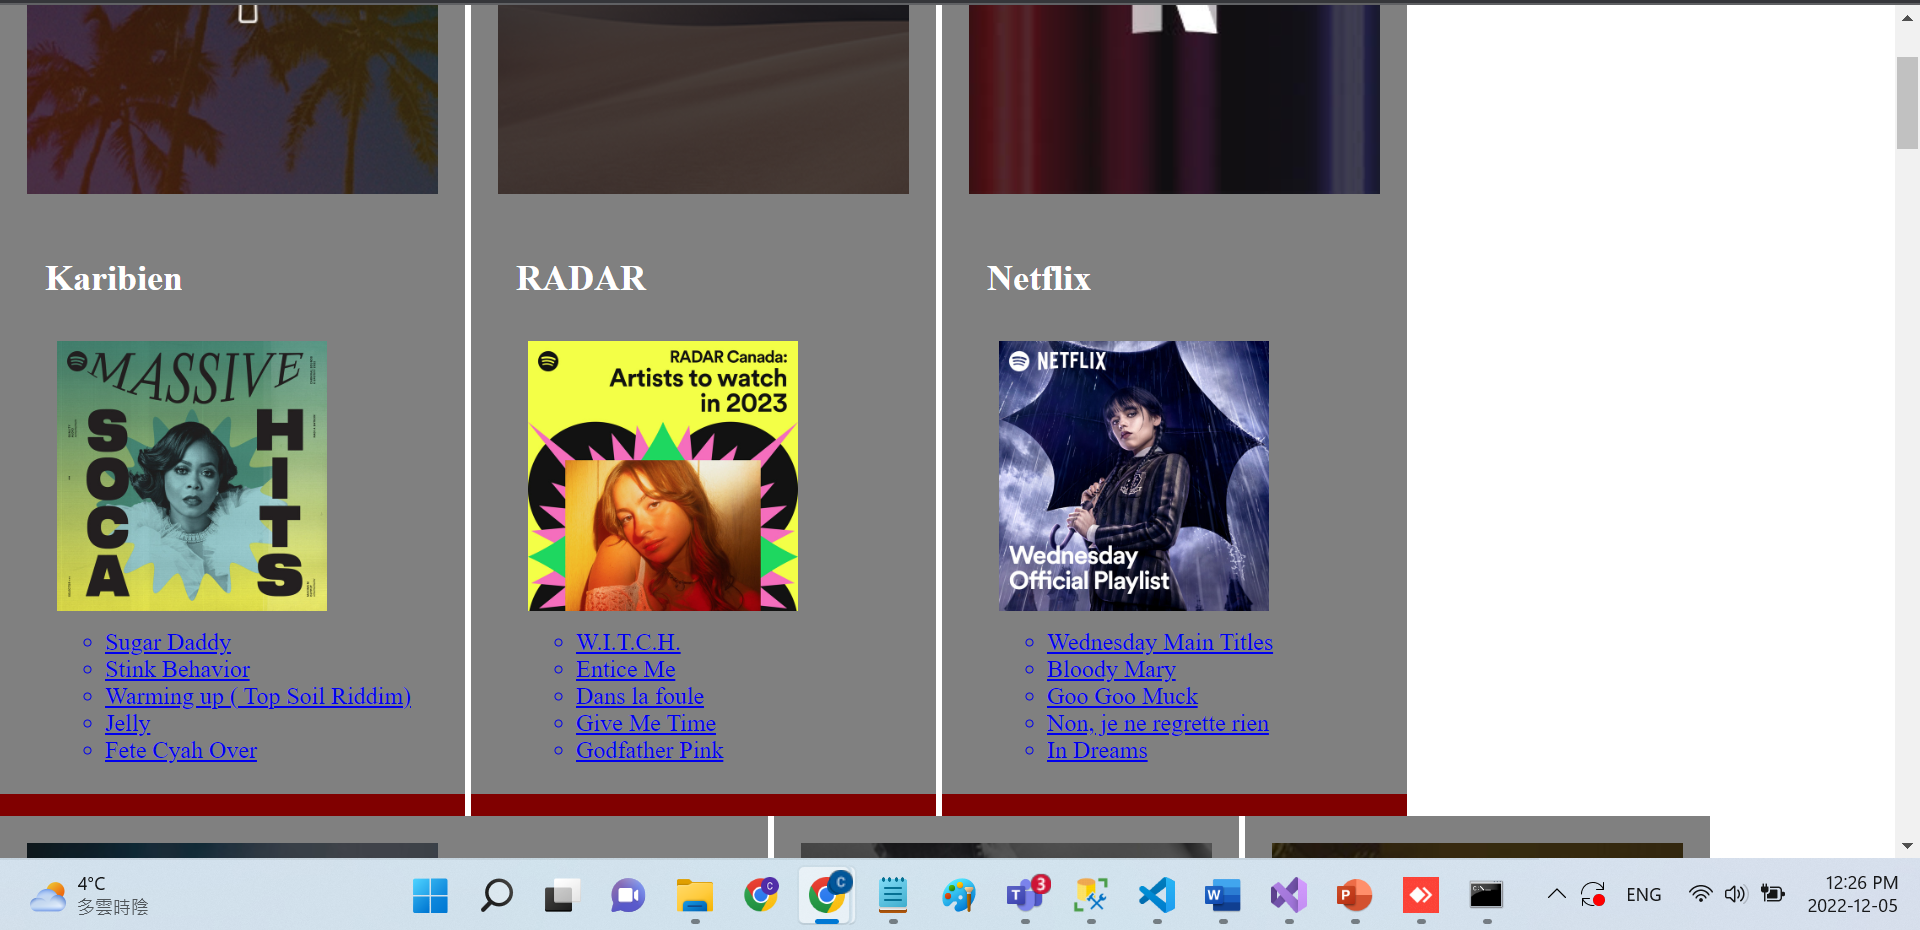
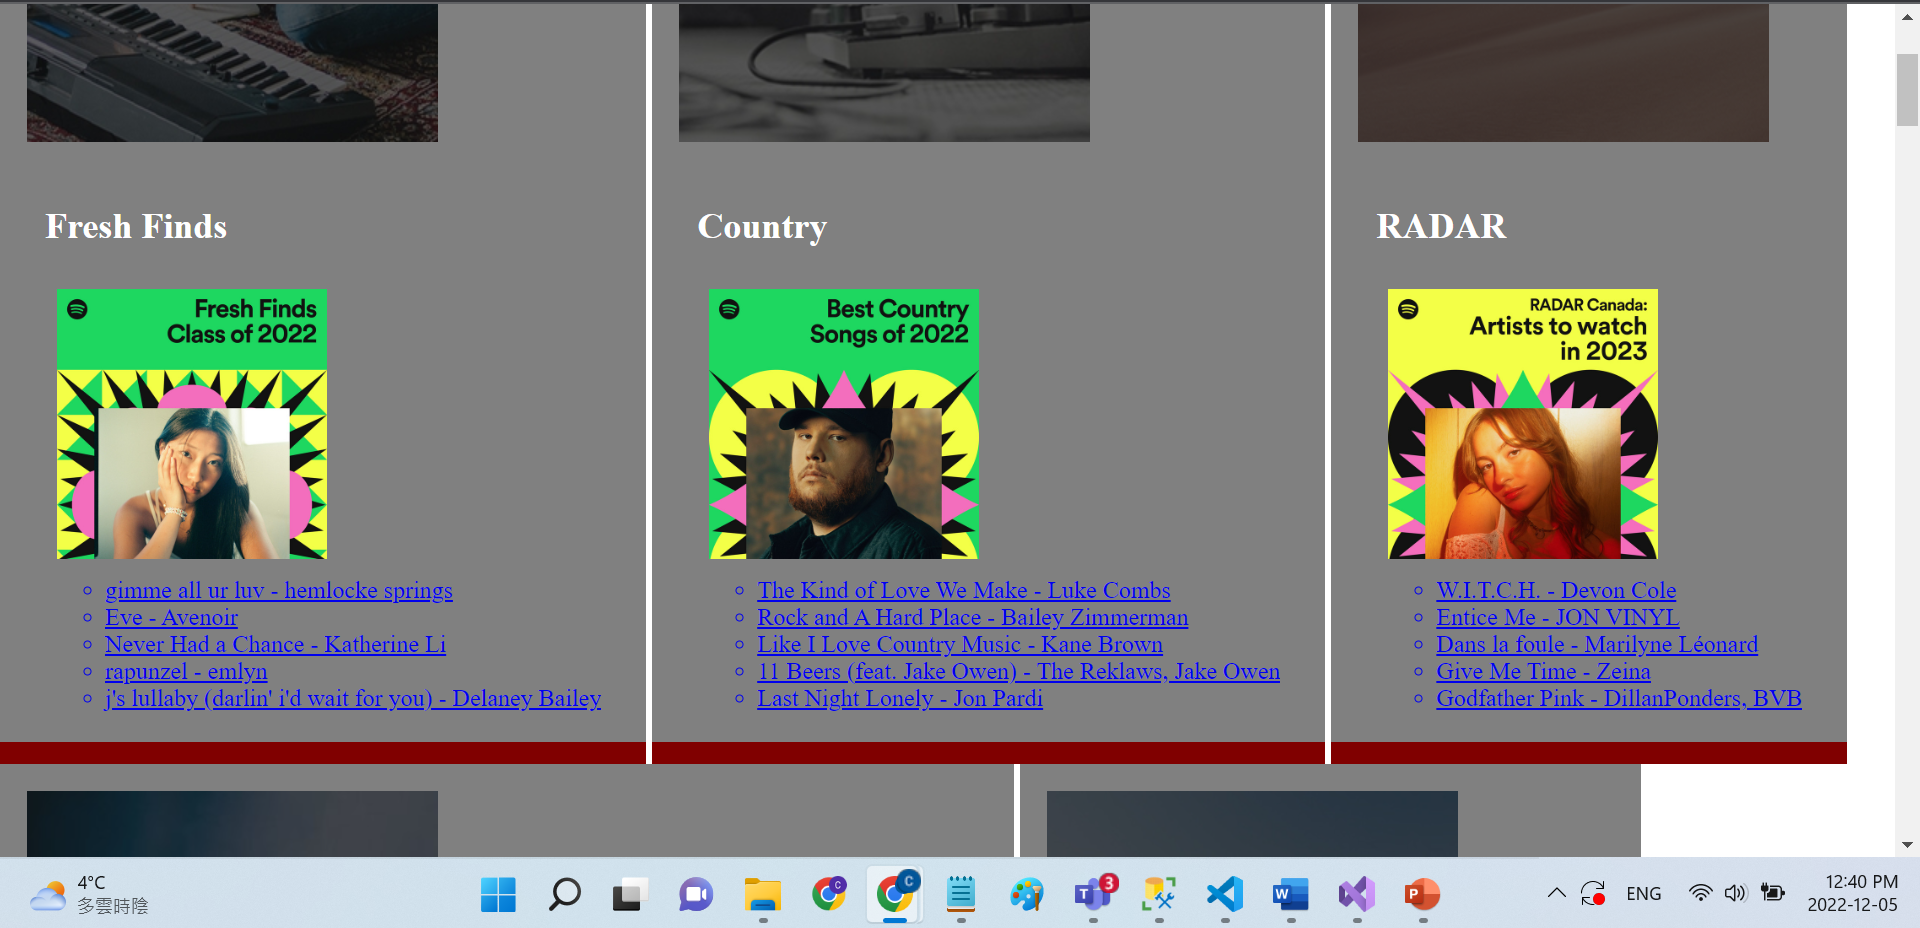
modified assignment 10

diff --git a/module-10/assignments/app.js b/module-10/assignments/app.js
@@ -67,9 +67,13 @@ const loadGenres = async () => {
 
       Promise.all(playlists.map( async ({ id, name, external_urls: { spotify }, images: [image] }) => {
               const tracks = await getTracksByPlayList(token, id);
-              const track = tracks.map(({track}) => `
-                <li>${track.name}</li>
-              `).join(``);
+              const track = tracks.map(({track}) => {
+                const artists = track.artists
+                  .map(({ name }) => name)
+                  .join(', ');
+                
+                return  `<li>${track.name} - ${artists}</li>`
+              }).join(``);
 
             return `
             <li>
